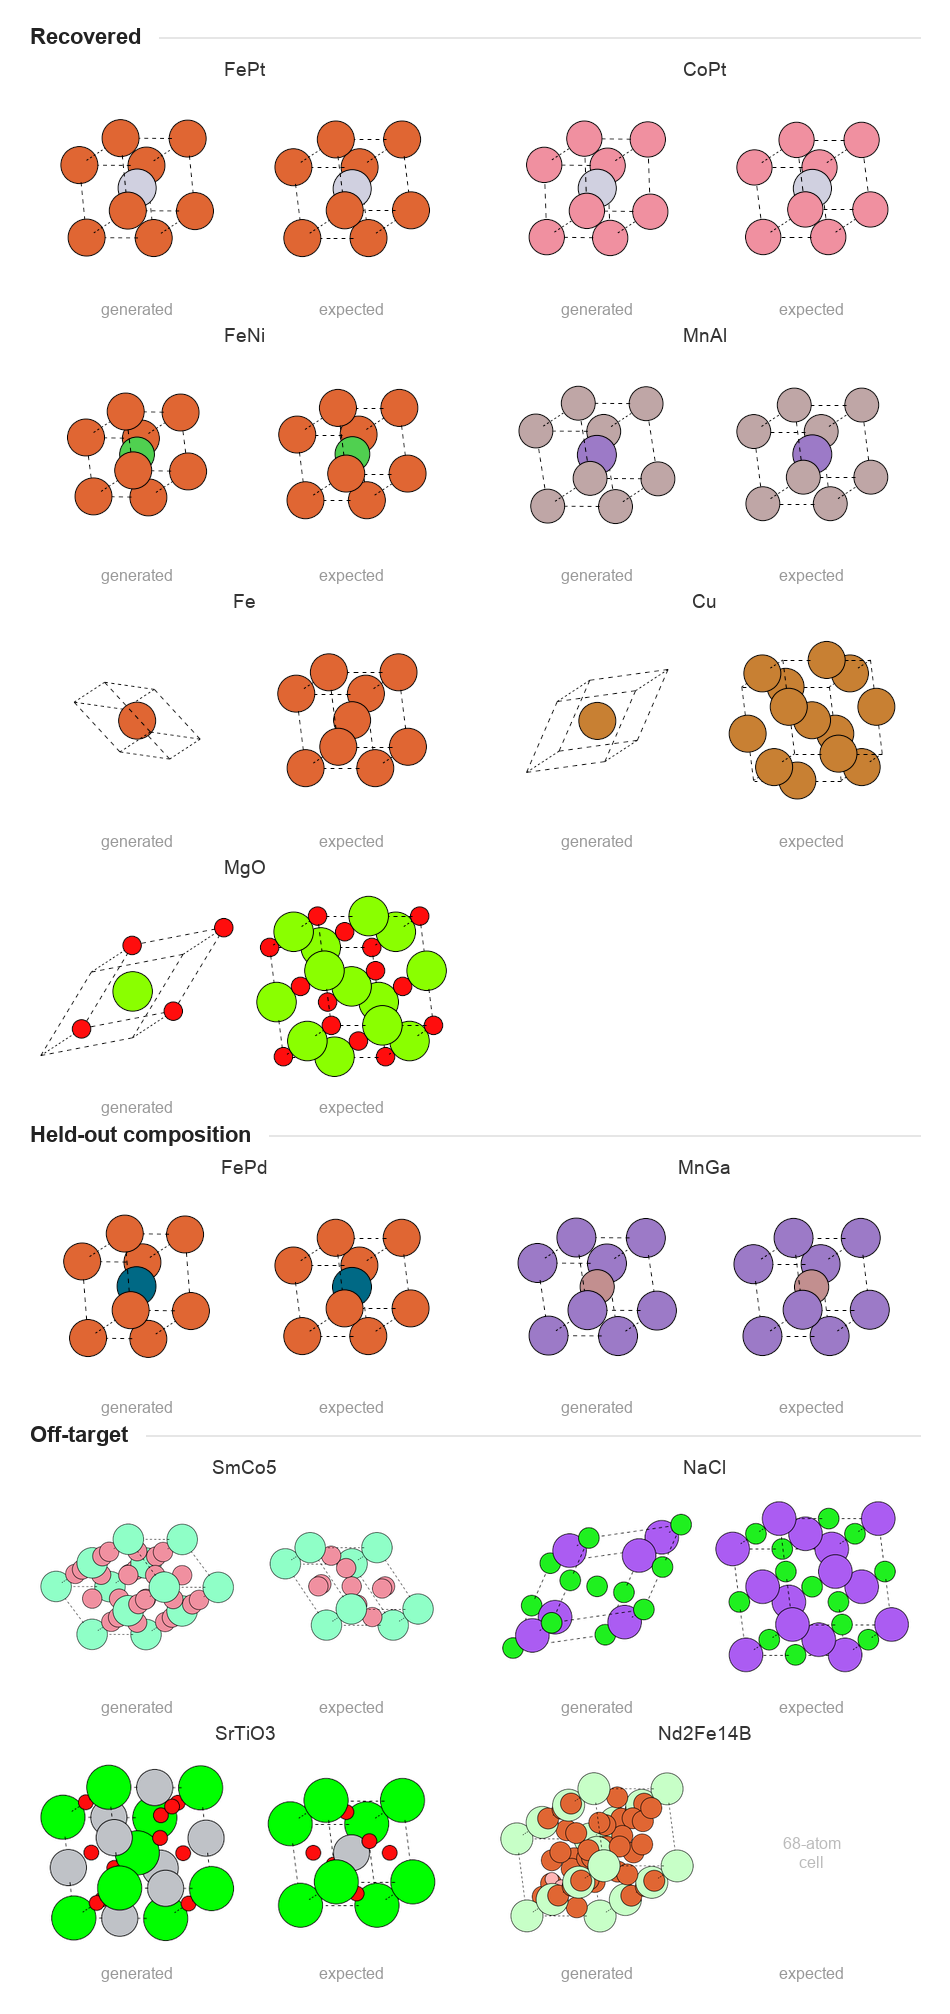
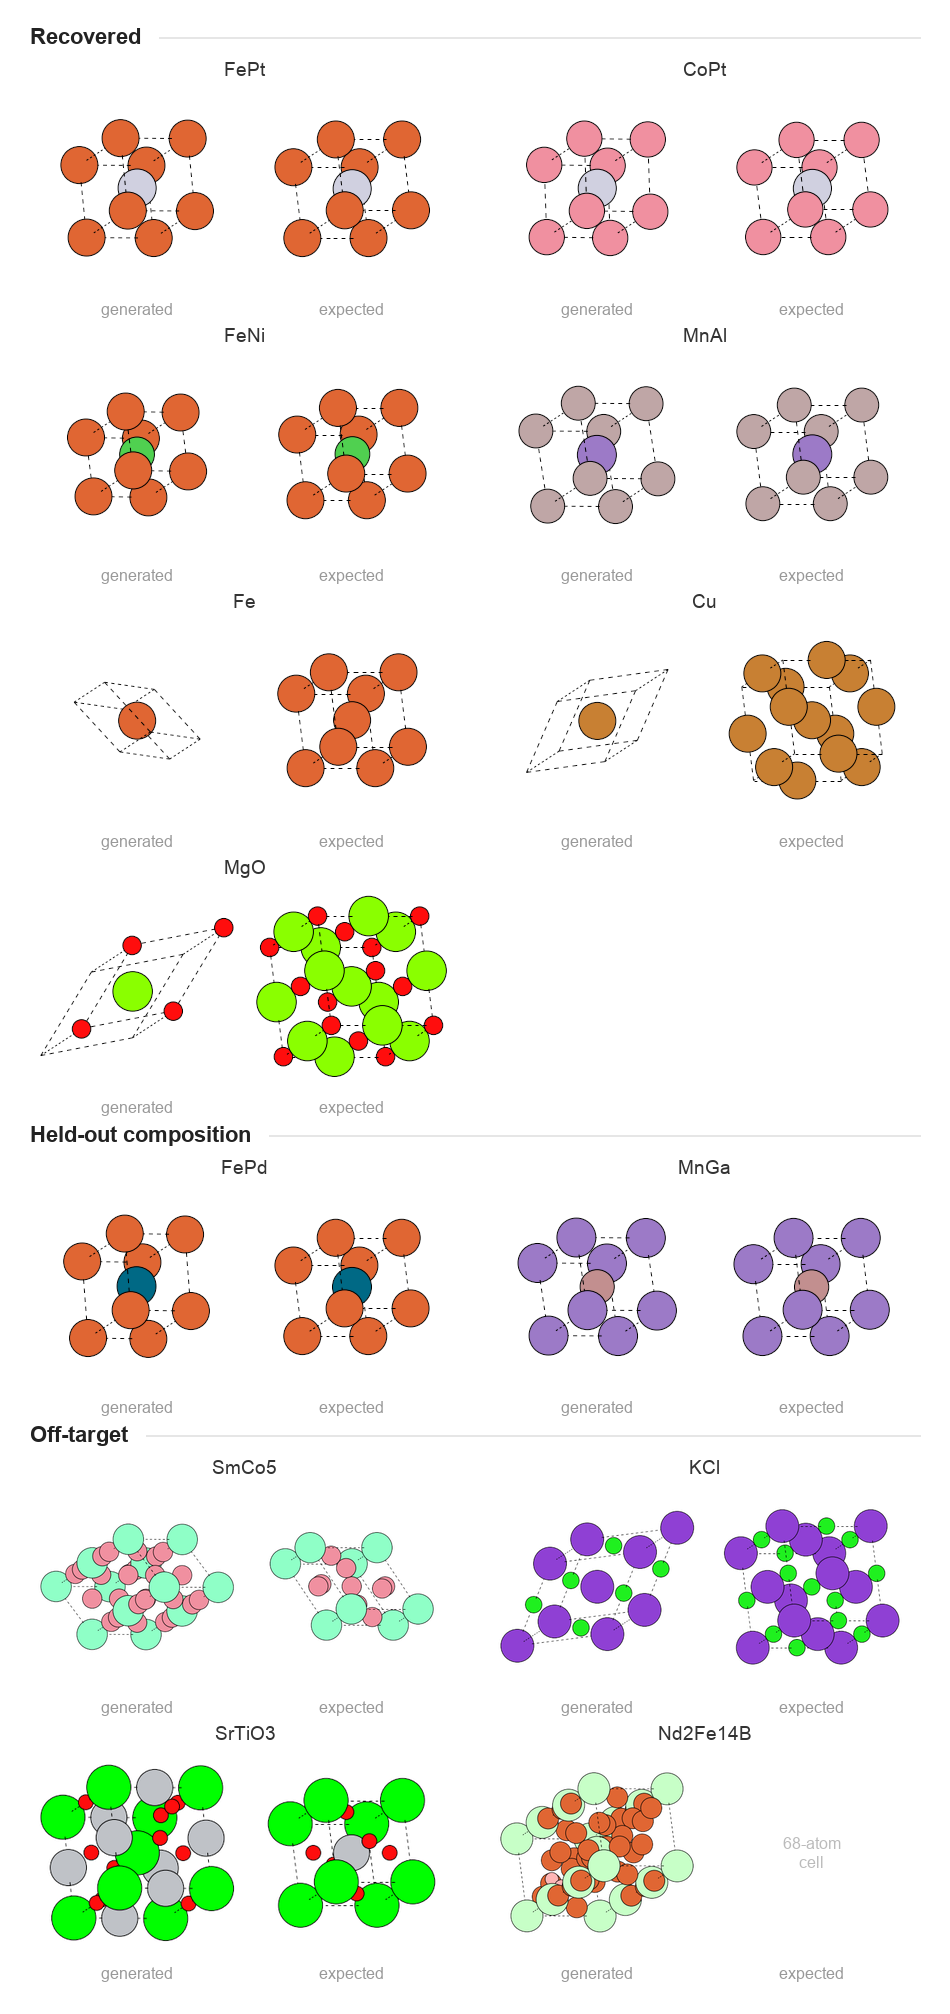
GPSK-300: ship intensity-gap decode occupancy; breadth and ternary evaluation
Decoder: formula-unit count now selected by intensity gap within an
8-40 A^3/atom window (was fixed 12 A^3/atom). Small dense cells are
unchanged (window collapses; FePt regression 7/8); closed-form
roundtrips 6/6 including NaCl/KCl.

Re-measured panels with the deployed decode (N=8, w=3):
- rock-salt: MgO/LiF/NaCl 8/8, CaO 5/8, KCl 0/8 (right density,
  wrong arrangement; 3 corpus entries at prompted symmetry)
- fluorite CaF2 8/8; zinc-blende GaAs/ZnS 7/8; CsCl 0/8
- ternary (corpus is 60% ternary/24% quaternary): Co2MnSi 4/8 and
  NiMnSb framework 8/8 species-blind with ZERO corpus entries
  (unseen ternary interpolation); NiMnSb exact 3/8 = near-Z Ni/Mn
  assignment gap on 3-species frameworks (3.6 caveat, 7 item)
- perovskites 0/8 even species-blind (cells ~2x volume); chalcopyrite/
  kesterite/spinel 0/8
- complexity recheck: Sm2Co17 19/38 atoms 2/8 valid; Nd2Fe14B 17-34
  atom fragments 0/8 valid

Paper: 3.6 describes the deployed occupancy selection; 5.6 failure
modes from current measurements; 5.8 rewritten with binary breadth +
ternary/quaternary panel; Fig 16 rebuilt (8 prototypes incl NiMnSb
species-blind bar); Tables 3/A2/A3 from fixed-decode runs; gallery
off-target tile NaCl -> KCl; 'genuinely' removed throughout

Changed region(s): [[0.7632, 0.7388, 0.9768, 0.8312], [0.5189, 0.7388, 0.7326, 0.8312], [0.7326, 0.708, 0.7632, 0.7388]]

diff --git a/content/project-014/gpsk-300.md b/content/project-014/gpsk-300.md
@@ -33,7 +33,7 @@ The contributions of this paper are:
 2. GPSK-300, a 302M-parameter multimodal diffusion transformer operating in a 16³×128 latent over this representation, trained with rectified flow matching and classifier-free guidance.
 3. A reframing of how generative CSP systems should be evaluated: by per-family recovery against known reference structures rather than by SUN-style novelty rewards, which structurally penalize the kind of accuracy a useful CSP system should exhibit.
 
-The remainder of the paper is organized as follows. Section 2 reviews the structure-factor representation, the reciprocal metric tensor, and the diffusion machinery on which the model is built. Section 3 describes the encoder, generator, and closed-form decoder. Section 4 covers the training data and protocol. Section 5 reports invertibility, L1₀ magnet recovery, the composition/family holdout, conditioning-modality emergence, and the rock-salt failure analysis. Section 6 discusses the system's scope and limits, and Section 7 outlines next-step directions.
+The remainder of the paper is organized as follows. Section 2 reviews the structure-factor representation, the reciprocal metric tensor, and the diffusion machinery on which the model is built. Section 3 describes the encoder, generator, and closed-form decoder. Section 4 covers the training data and protocol. Section 5 reports invertibility, L1₀ magnet recovery, the composition/family holdout, conditioning-modality emergence, and breadth and failure-mode analysis. Section 6 discusses the system's scope and limits, and Section 7 outlines next-step directions.
 
 ### 2  Background
 
@@ -350,17 +350,17 @@ The default guidance scale is \(w = 6.0\), substantially higher than typical ima
 
 Once the model produces a \(64^3 \times 3\) grid, reconstruction is closed-form.
 
-**Atom positions.** Combine channels 0 and 1 into a complex field \(F = \mathrm{Re}\,F + i\,\mathrm{Im}\,F\), inverse FFT, take \(|\cdot|\) to obtain the fractional electron density \(\rho(\mathbf{r})\). Periodic-aware peak finding with a minimum-separation criterion gives candidate atomic sites. The detection step over-samples with a low threshold and then keeps the top-\(N\) peaks where \(N\) is set by the requested formula and the cell volume:
+**Atom positions.** Combine channels 0 and 1 into a complex field \(F = \mathrm{Re}\,F + i\,\mathrm{Im}\,F\), inverse FFT, take \(|\cdot|\) to obtain the fractional electron density \(\rho(\mathbf{r})\). Periodic-aware peak finding with a minimum-separation criterion gives candidate atomic sites. The detection step over-samples with a low threshold and then keeps the top-\(N\) peaks, \(N = n_\text{f.u.} \cdot \sum_e \nu_e\), where the formula-unit count is selected jointly from the cell volume and the peak intensities. Candidate counts are bounded to a physical per-atom-volume window (8–40 ų, spanning dense intermetallics through large ionics):
 
-$$N \;=\; n_\text{f.u.} \cdot \sum_e \nu_e, \qquad n_\text{f.u.} \;=\; \mathrm{round}\!\bigl(V_\text{cell} / (V_\text{atom} \cdot \sum_e \nu_e)\bigr)$$
+$$\Bigl\lceil V_\text{cell} \,/\, \bigl(40\,\text{Å}^3 \cdot \textstyle\sum_e \nu_e\bigr) \Bigr\rceil \;\le\; n_\text{f.u.} \;\le\; \Bigl\lfloor V_\text{cell} \,/\, \bigl(8\,\text{Å}^3 \cdot \textstyle\sum_e \nu_e\bigr) \Bigr\rfloor$$
 
-with \(V_\text{atom} \approx 12\) Å³ as a rough average per atom. This enforces requested stoichiometry exactly.
+and within the window the count with the largest drop in ranked peak intensity is selected, since true atomic peaks are bright and spurious ones dim. For dense small cells the window collapses to a single candidate; for large-volume-per-atom ionics the intensity gap resolves the count. This enforces requested stoichiometry exactly.
 
 **Lattice.** From channel 2, denormalize to recover \(1/d^2(\mathbf{h})\) on the integer grid. Assemble the design matrix \(\mathbf{A} = [\,h^2,\,k^2,\,l^2,\,2hk,\,2hl,\,2kl\,]\) over all non-origin grid points and solve the linear least-squares problem \(\min_{\mathbf{g}} \|\mathbf{A}\mathbf{g} - \mathbf{y}\|^2\) for the six independent components of \(G^\ast\). Invert \(G^\ast \to G\) and read off:
 
 $$a = \sqrt{G_{11}},\; b = \sqrt{G_{22}},\; c = \sqrt{G_{33}}, \quad \cos\alpha = G_{23}/(bc),\; \text{etc.}$$
 
-**Composition.** The deployed decoder assumes the requested formula and assigns heavier elements to brighter peaks. The heuristic recovers element identity correctly because the Cromer-Mann scattering magnitude scales monotonically with atomic number, and, perhaps surprisingly, it is robust even for near-Z neighbors (Fe/Co/Ni, Mn/Fe). It reads density peak *heights*, which the inverse FFT concentrates at atomic sites, so they are stable under reconstruction error: across encoded near-Z binaries, the heuristic assigns elements correctly at 100% both noise-free and under the VAE's own round-trip error (Figure 8). A magnitude-fitting alternative (joint Cromer-Mann least squares) is exact in the noise-free limit but *less* robust, it overfits the reconstruction error to neighboring atomic numbers and drops to ~60% on the same near-Z cases, so the simple heuristic is retained.
+**Composition.** The deployed decoder assumes the requested formula and assigns heavier elements to brighter peaks. The heuristic recovers element identity correctly because the Cromer-Mann scattering magnitude scales monotonically with atomic number, and, perhaps surprisingly, it is robust even for near-Z neighbors (Fe/Co/Ni, Mn/Fe). It reads density peak *heights*, which the inverse FFT concentrates at atomic sites, so they are stable under reconstruction error: across encoded near-Z binaries, the heuristic assigns elements correctly at 100% both noise-free and under the VAE's own round-trip error (Figure 8). The reliability is binary-specific, however: with three or more species on distinct sublattices, near-Z pairs are confused more often (NiMnSb in Section 5.8), and disambiguation beyond binaries remains open (Section 7). A magnitude-fitting alternative (joint Cromer-Mann least squares) is exact in the noise-free limit but *less* robust, it overfits the reconstruction error to neighboring atomic numbers and drops to ~60% on the same near-Z cases, so the simple heuristic is retained.
 
 <figure>
   <svg viewBox="0 0 600 220" xmlns="http://www.w3.org/2000/svg" style="font-family:inherit;">
@@ -475,7 +475,7 @@ The L1₀ family is a primary target for rare-earth-free permanent magnets: tetr
 
 <figure>
   <img src="/img/gpsk300_gallery.png" alt="Generated versus expected crystal structures across the competence spectrum: recovered L1₀ magnets, metals and rock-salt oxide; held-out compositions; and characteristic failures." style="width:100%;max-width:600px;display:block;margin:0 auto;" />
-  <figcaption><strong>Figure 9a.</strong> GPSK-300's outputs span its competence spectrum, each shown as the generated crystal beside the expected reference at a common scale. The recovered families (L1₀ magnets, simple metals, and the rock-salt oxide, recovered despite ~430 training samples) reproduce the expected cell; held-out compositions (FePd, MnGa) recover at nearly the seen rate; and the off-target cases are visible directly: the unseen hexagonal family produces a tall cell rather than the squat CaCu₅ geometry, rock-salt halides and perovskite generate coherent but structurally wrong cells, and the 68-atom Nd₂Fe₁₄B exceeds the decode's ~20–40-atom ceiling and returns only a fragment. Per-structure metrics are in Tables 1–4 and Appendix A.</figcaption>
+  <figcaption><strong>Figure 9a.</strong> GPSK-300's outputs span its competence spectrum, each shown as the generated crystal beside the expected reference at a common scale. The recovered families (L1₀ magnets, simple metals, and the rock-salt oxide, recovered despite ~430 training samples) reproduce the expected cell; held-out compositions (FePd, MnGa) recover at nearly the seen rate; and the off-target cases are visible directly: the unseen hexagonal family produces a tall cell rather than the squat CaCu₅ geometry, KCl and the perovskite generate coherent but structurally wrong cells, and the 68-atom Nd₂Fe₁₄B exceeds the decode's ~20–40-atom ceiling and returns only a fragment. Per-structure metrics are in Tables 1–4 and Appendix A.</figcaption>
 </figure>
 
 <figure>
@@ -614,21 +614,19 @@ The exact-fingerprint novelty metric reports ≈100% novel, but this is the metr
 
 #### 5.6  Failure modes
 
-Rock-salt ionics initially appear to divide along anion type: MgO recovers exactly while NaCl and KCl report per-atom volumes roughly half their references. Tracing where the error lives overturns that reading. The lattice read closed-form from the generated grids, before any atom placement, is never undersized: LiF and MgO land on the correct primitive cell, while CaO, NaCl, and KCl come out 13–30% *oversized* on edge length (Table 3). The "undershoot" enters at decode. The peak-count heuristic of Section 3.6 assumes ≈12 ų per atom; for targets whose true atomic volume is far larger (CaO 14, NaCl 22, KCl 31 ų/atom) it over-counts formula units, and the top-N picker promotes noise peaks to fill the quota, collapsing nearest-neighbor distances and forcing the reported per-atom volume back toward 12 ų regardless of the generated cell. Re-decoding the *same grids* with the occupancy set from the composition's true atomic volume recovers exact `StructureMatcher` matches the stock decode scored at zero: CaO goes from 0/8 to 7/8 and NaCl from 0/8 to 2/8, while KCl stays at 0/8 (Table 3). The split is therefore not anion chemistry, and CaO, an oxide that stock-decodes at 0/8, breaks the anion-type divide outright: MgO (9.3 ų/atom) and LiF (8.2) recover because their atomic densities sit near the decoder's prior and round to the correct atom count, and LiF is itself a halide.
+Most rock-salt ionics recover. MgO, LiF, and NaCl match their reference structures in 8 of 8 samples each, and CaO in 5 of 8, with decoded cells running 10–60% large on volume but well within match tolerance (Table 3). KCl is the failure case: no sample matches; the cells decode at approximately the right atomic density but the arrangement is not rock-salt, with nearest-neighbor distances ~12% short and inconsistent atom counts across samples. The failure tracks conditional support rather than chemistry: the corpus holds 29 MgO entries at the prompted composition and symmetry against 3 for KCl, and the most weakly supported prompt is the one that fails. Other failure modes are family-specific. Si (diamond cubic) is a generative miss: the generated cells sit near the volume of the *one-atom fcc primitive* rather than the two-atom diamond cell (≈ 0.55× reference volume per atom), as if the model emits the lattice without the basis doubling; 1 of 8 samples still matches the reference at the matcher's tolerance edge. LiFePO₄ (olivine) does not recover: every sample returns a single-formula-unit, 7-atom cell in place of the 28-atom olivine cell, with per-atom volume close to correct (≈ 0.94), the same too-small-cell behavior as the complexity ceiling of Section 5.9.
 
-What remains after the decode artifact is a genuine generative error that grows as conditional support thins: the corpus holds 29 MgO entries at the prompted symmetry but only 8 for NaCl and 3 for KCl, and the generated cell oversize grows in the same order (MgO ≈ 0%, NaCl +15%, KCl +30%), leaving KCl unrecoverable even with oracle occupancy. Other failure modes are family-specific. Si (diamond cubic) is a genuine generative miss: the generated cells sit near the volume of the *one-atom fcc primitive* rather than the two-atom diamond cell (≈ 0.53× reference volume per atom), as if the model emits the lattice without the basis doubling; 2 of 8 samples still match the reference at the matcher's tolerance edge. LiFePO₄ (olivine) does not recover: every sample returns a single-formula-unit, 7-atom cell in place of the 28-atom olivine cell, with per-atom volume close to correct (≈ 0.94), the same too-small-cell behavior as the complexity ceiling of Section 5.9.
+**Table 3.** Rock-salt family (ship checkpoint, N = 8 per composition, w = 3). vol/atom = median per-atom volume ratio (1.0 = correct); match = exact `StructureMatcher` rate.
 
-**Table 3.** Rock-salt family (ship checkpoint, N = 8 per composition, w = 3; the MgO match rate is from the N = 16 breadth run). nn = nearest-neighbor distance ratio from the stock decode, which is independent of atom count and so reflects the generated geometry; vol/atom = stock-decode per-atom volume ratio, which carries the occupancy artifact. Match is exact `StructureMatcher`, stock decode → same grids re-decoded with composition-aware occupancy.
+| Composition | type | vol/atom ratio | match |
+|---|:---:|---:|:---:|
+| MgO  | oxide  | 1.26 | 8/8 |
+| LiF  | halide | 1.11 | 8/8 |
+| NaCl | halide | 1.60 | 8/8 |
+| CaO  | oxide  | 1.37 | 5/8 |
+| KCl  | halide | 0.98 | 0/8 |
 
-| Composition | type | true ų/atom | vol/atom ratio | nn ratio | match (stock → fixed occupancy) |
-|---|:---:|---:|---:|---:|:---:|
-| MgO  | oxide  | 9.3 | 1.18 | 1.04 | ✓ 16/16 |
-| LiF  | halide | 8.2 | 0.95 | 0.95 | ✓ 6/8 |
-| CaO  | oxide  | 13.9 | 0.73 | 0.71 | ✗ 0/8 → **7/8** |
-| NaCl | halide | 22.4 | 0.51 | 0.57 | ✗ 0/8 → 2/8 |
-| KCl  | halide | 31.1 | 0.39 | 0.23 | ✗ 0/8 → 0/8 |
-
-The remedy splits accordingly. The occupancy artifact is a decode-level fix (composition-aware atomic volumes in the formula-unit estimate) requiring no retraining (Section 7). The residual cell oversize is the part a learning signal can address, and it is the natural target for the stability-aware reward of Section 7.
+The KCl failure and the modest volume oversize across the family are the kind of error the flow-matching objective does not currently penalize: nothing in training pushes a generated cell toward its energy minimum. Both are the natural target for the stability-aware reward of Section 7.
 
 #### 5.7  Holdout generalization: composition vs family
 
@@ -710,46 +708,56 @@ The family-level failure is not permanent: a brief fine-tune on a handful of exa
 
 #### 5.8  Breadth beyond the magnet families
 
-The evaluation so far targets magnet families by design. To map where the reciprocal-space representation generalizes and where it is family-specific, GPSK-300 was probed on a panel of canonical prototypes spanning bonding types (ionic, covalent, oxide, metallic), each scored against a prototype reference with the Section 5 structure-level metrics (Table A2). The picture is one of *narrow, coverage-tracking competence*.
+The evaluation so far targets magnet families by design. To map where the reciprocal-space representation generalizes and where it is family-specific, GPSK-300 was probed on a panel of canonical prototypes spanning bonding types (ionic, covalent, oxide, metallic) and element counts, each scored against a prototype reference with the Section 5 structure-level metrics (Table A2).
 
+Across the simple binary prototypes, recovery is broad: the metals (Fe 100%, Cu 93%), the rock-salt ionics (MgO, LiF, NaCl at 8/8 each; CaO 5/8), fluorite CaF₂ (8/8), and the zinc-blende covalents (GaAs and ZnS, 7/8 each) all reproduce their reference structures. Recovery does not track raw family counts: rock-salt oxide is one of the rarest labeled families in the corpus (~430 of 2M samples), and GaAs has barely any zinc-blende-symmetry entries under its own formula, yet both recover, the motif being learned from structural siblings rather than from the exact composition. The binary failures concentrate where the conditional support at the prompted (composition, symmetry) is nearly empty and the atomic volume is extreme: KCl and CsCl (3 and 5 corpus entries at their prompted symmetry) decode at roughly the right density but in the wrong arrangement.
 
-Exact recovery is confined to simple metals and the rock-salt oxide MgO; most other prototypes produce geometrically valid but structurally incorrect cells. The MgO recovery comes *despite* representation, not because of it: rock-salt oxide is one of the rarest labeled families in the corpus (~430 of 2M samples, against ~4,200 rock-salt halides), and the halide failure traces to the decode's occupancy prior rather than to coverage (Section 5.6). Coverage still matters where it is genuinely thin at the prompted conditional (KCl's cell oversize tracks its three corpus entries at the prompted symmetry), but the simple oxide-recovers-because-it-is-well-covered story does not survive the corpus counts. **The magnet-family accuracy does not broadly generalize**, which is the empirical basis for positioning GPSK-300 as an amortized proposer for represented families rather than a general-purpose CSP engine. (Annealing sharpens these rates but does not broaden them: across checkpoints, metal recovery peaks at the same point as magnet recovery, and the never-matched families stay at zero.)
+Ternary and quaternary prototypes matter more than the binary panel suggests: 60% of the training corpus is ternary and 24% quaternary, with binaries only 13%. Probing this regime separates the framework from the species labeling. The Heusler intermetallics interpolate the way the L1₀ holdout does (Section 5.7): Co₂MnSi (4/8 exact) and NiMnSb appear nowhere in the corpus under their formulas, yet the model produces their frameworks, NiMnSb in 8 of 8 samples under species-blind matching. NiMnSb's exact rate is 3/8, the gap being element assignment: with three species on distinct sublattices, the brightness heuristic of Section 3.6 confuses the near-Z pair Ni/Mn (ΔZ = 3), a limitation that does not appear on binaries (Section 7). The structured oxides and sulfides are the substantive misses: the cubic perovskites (SrTiO₃, BaTiO₃) generate cells near twice the reference volume with the wrong motif even species-blind, and chalcopyrite, kesterite, and spinel do not recover.
+
+**The magnet-family accuracy generalizes to simple prototypes and intermetallic frameworks, but not to multi-sublattice oxides**, which is the empirical basis for positioning GPSK-300 as an amortized proposer for represented motif classes rather than a general-purpose CSP engine. (Annealing sharpens these rates but does not broaden them: across checkpoints, metal recovery peaks at the same point as magnet recovery, and the never-matched families stay at zero.)
 
 <figure>
-  <svg viewBox="0 0 600 250" xmlns="http://www.w3.org/2000/svg" style="font-family:inherit;">
-    <line x1="150" y1="30" x2="150" y2="205" stroke="#888" stroke-width="0.5"/>
-    <line x1="335" y1="30" x2="335" y2="205" stroke="#eee" stroke-width="0.5"/>
-    <line x1="520" y1="30" x2="520" y2="205" stroke="#eee" stroke-width="0.5"/>
-    <text x="144" y="48" text-anchor="end" font-size="9.5" fill="#333">Fe · bcc metal</text>
-    <rect x="150" y="40" width="370" height="14" fill="#FF680A" fill-opacity="0.8"/>
-    <text x="527" y="51" font-size="9.5" fill="#FF680A">100%</text>
-    <text x="144" y="78" text-anchor="end" font-size="9.5" fill="#333">Cu · fcc metal</text>
-    <rect x="150" y="70" width="344" height="14" fill="#FF680A" fill-opacity="0.8"/>
-    <text x="501" y="81" font-size="9.5" fill="#FF680A">93%</text>
-    <text x="144" y="108" text-anchor="end" font-size="9.5" fill="#333">MgO · rock-salt oxide</text>
-    <rect x="150" y="100" width="370" height="14" fill="#FF680A" fill-opacity="0.8"/>
-    <text x="527" y="111" font-size="9.5" fill="#FF680A">100%</text>
-    <text x="144" y="138" text-anchor="end" font-size="9.5" fill="#888">NaCl · rock-salt halide</text>
-    <rect x="150" y="130" width="3" height="14" fill="#bbb"/>
-    <text x="160" y="141" font-size="9.5" fill="#999">0%</text>
-    <text x="144" y="168" text-anchor="end" font-size="9.5" fill="#888">SrTiO₃ · perovskite</text>
-    <rect x="150" y="160" width="3" height="14" fill="#bbb"/>
-    <text x="160" y="171" font-size="9.5" fill="#999">0%</text>
-    <text x="144" y="198" text-anchor="end" font-size="9.5" fill="#888">GaAs · zinc-blende</text>
-    <rect x="150" y="190" width="3" height="14" fill="#bbb"/>
-    <text x="160" y="201" font-size="9.5" fill="#999">0%</text>
-    <line x1="150" y1="208" x2="520" y2="208" stroke="#888" stroke-width="0.5"/>
-    <text x="150" y="221" text-anchor="middle" font-size="9" fill="#666">0</text>
-    <text x="335" y="221" text-anchor="middle" font-size="9" fill="#666">50%</text>
-    <text x="520" y="221" text-anchor="middle" font-size="9" fill="#666">100%</text>
-    <text x="335" y="239" text-anchor="middle" font-size="10" fill="#444" font-style="italic">StructureMatcher recovery rate</text>
+  <svg viewBox="0 0 600 280" xmlns="http://www.w3.org/2000/svg" style="font-family:inherit;">
+    <line x1="150" y1="28" x2="150" y2="234" stroke="#888" stroke-width="0.5"/>
+    <line x1="335" y1="28" x2="335" y2="234" stroke="#eee" stroke-width="0.5"/>
+    <line x1="520" y1="28" x2="520" y2="234" stroke="#eee" stroke-width="0.5"/>
+    <text x="144" y="47" text-anchor="end" font-size="9.5" fill="#333">Fe · bcc metal</text>
+    <rect x="150" y="38" width="370" height="13" fill="#FF680A" fill-opacity="0.8"/>
+    <text x="527" y="49" font-size="9.5" fill="#FF680A">100%</text>
+    <text x="144" y="73" text-anchor="end" font-size="9.5" fill="#333">Cu · fcc metal</text>
+    <rect x="150" y="64" width="344" height="13" fill="#FF680A" fill-opacity="0.8"/>
+    <text x="501" y="75" font-size="9.5" fill="#FF680A">93%</text>
+    <text x="144" y="99" text-anchor="end" font-size="9.5" fill="#333">MgO · rock-salt oxide</text>
+    <rect x="150" y="90" width="370" height="13" fill="#FF680A" fill-opacity="0.8"/>
+    <text x="527" y="101" font-size="9.5" fill="#FF680A">100%</text>
+    <text x="144" y="125" text-anchor="end" font-size="9.5" fill="#333">NaCl · rock-salt halide</text>
+    <rect x="150" y="116" width="370" height="13" fill="#FF680A" fill-opacity="0.8"/>
+    <text x="527" y="127" font-size="9.5" fill="#FF680A">100%</text>
+    <text x="144" y="151" text-anchor="end" font-size="9.5" fill="#333">GaAs · zinc-blende</text>
+    <rect x="150" y="142" width="324" height="13" fill="#FF680A" fill-opacity="0.8"/>
+    <text x="481" y="153" font-size="9.5" fill="#FF680A">88%</text>
+    <text x="144" y="177" text-anchor="end" font-size="9.5" fill="#333">NiMnSb · half-Heusler</text>
+    <rect x="150" y="168" width="139" height="13" fill="#FF680A" fill-opacity="0.8"/>
+    <rect x="289" y="168" width="185" height="13" fill="#FF680A" fill-opacity="0.25"/>
+    <text x="481" y="179" font-size="9.5" fill="#FF680A">38% · 100% species-blind</text>
+    <text x="144" y="203" text-anchor="end" font-size="9.5" fill="#888">SrTiO₃ · perovskite</text>
+    <rect x="150" y="194" width="3" height="13" fill="#bbb"/>
+    <text x="160" y="205" font-size="9.5" fill="#999">0%</text>
+    <text x="144" y="229" text-anchor="end" font-size="9.5" fill="#888">KCl · rock-salt halide</text>
+    <rect x="150" y="220" width="3" height="13" fill="#bbb"/>
+    <text x="160" y="231" font-size="9.5" fill="#999">0%</text>
+    <line x1="150" y1="237" x2="520" y2="237" stroke="#888" stroke-width="0.5"/>
+    <text x="150" y="250" text-anchor="middle" font-size="9" fill="#666">0</text>
+    <text x="335" y="250" text-anchor="middle" font-size="9" fill="#666">50%</text>
+    <text x="520" y="250" text-anchor="middle" font-size="9" fill="#666">100%</text>
+    <text x="335" y="268" text-anchor="middle" font-size="10" fill="#444" font-style="italic">StructureMatcher recovery rate</text>
   </svg>
-  <figcaption><strong>Figure 16.</strong> Exact-structure recovery varies sharply across canonical prototypes spanning ionic, covalent, oxide, and metallic bonding. Recovery is confined to simple metals and the rock-salt oxide MgO, which recovers despite rock-salt oxide being among the rarest labeled families in the corpus (~430 samples); the rock-salt halide failure traces to the decode's occupancy prior rather than to training coverage (Section 5.6). The remaining prototypes produce valid-looking but structurally incorrect cells, so magnet-family accuracy does not broadly generalize.</figcaption>
+  <figcaption><strong>Figure 16.</strong> Exact-structure recovery across canonical prototypes spanning ionic, covalent, oxide, and metallic bonding. Recovery is broad across the simple binary prototypes (metals, rock-salt, zinc-blende) and does not track raw family counts: rock-salt oxide is among the rarest labeled families in the corpus (~430 samples), yet MgO recovers. NiMnSb, a ternary absent from the corpus under its own formula, produces the correct half-Heusler framework in every sample (light bar, species-blind matching); its exact rate is set by element assignment on the near-Z Ni/Mn pair. The failures are the extreme-volume thin-support ionics (KCl) and the multi-sublattice oxides (perovskite), which generate coherent cells with the wrong motif.</figcaption>
 </figure>
 
 #### 5.9  Complexity ceiling
 
-The closed-form decode locates atoms as peaks in the inverse-FFT density, which bounds the cell complexity it can resolve. A ladder of increasing atom count makes the ceiling explicit (Table A3): small-to-moderate cells recover, but beyond roughly 20–40 atoms the decode collapses: it either undershoots the atom count badly or returns invalid geometry. Nd₂Fe₁₄B, the commercial permanent magnet [1, 2], is a 68-atom cell; the model emits a single-formula-unit, 17-atom fragment.
+The closed-form decode locates atoms as peaks in the inverse-FFT density, which bounds the cell complexity it can resolve. A ladder of increasing atom count makes the ceiling explicit (Table A3): small-to-moderate cells recover, but beyond roughly 20–40 atoms the decode collapses: it either undershoots the atom count badly or returns invalid geometry. Nd₂Fe₁₄B, the commercial permanent magnet [1, 2], is a 68-atom cell; the model emits one- to two-formula-unit fragments (17–34 atoms, never the full cell), none geometrically valid.
 
 
 Critically, **this is not a grid-resolution limit.** A closed-form encode→decode round-trip on real structures resolves all atoms losslessly up to at least 128 atoms at the current 64³ Miller grid, and doubling the grid to 128³ yields no improvement at any atom count. The ceiling is instead the *generative* model emitting too-small cells for complex compositions (a training-coverage effect, large cells are rare in the corpus) compounded by the peak-finder's sensitivity on dense cells. The remedy is coverage and decode refinement, not finer sampling, and it bounds the honest reading of "invertibility," which holds for small-to-moderate well-represented cells and degrades as peak density grows.
@@ -778,7 +786,7 @@ Critically, **this is not a grid-resolution limit.** A closed-form encode→deco
     <text x="525" y="214" text-anchor="middle" font-size="9" fill="#666">68</text>
     <text x="317" y="236" text-anchor="middle" font-size="10" fill="#444" font-style="italic">unit-cell atom count</text>
   </svg>
-  <figcaption><strong>Figure 17.</strong> Structure recovery falls off with unit-cell atom count. Cells up to ~16 atoms recover; beyond ~20–40 atoms the decode collapses, returning invalid geometry (Sm₂Co₁₇) or a partial fragment (Nd₂Fe₁₄B, the 68-atom commercial magnet, decodes only 17 atoms). The limit is not grid resolution (a closed-form round-trip resolves ≥128 atoms at this grid) but the generative model emitting too-small cells, compounded by peak-finding on dense cells.</figcaption>
+  <figcaption><strong>Figure 17.</strong> Structure recovery falls off with unit-cell atom count. Cells up to ~16 atoms recover; beyond ~20–40 atoms the decode collapses, returning mostly invalid geometry (Sm₂Co₁₇) or a partial fragment (Nd₂Fe₁₄B, the 68-atom commercial magnet, decodes only 17–34 atoms). The limit is not grid resolution (a closed-form round-trip resolves ≥128 atoms at this grid) but the generative model emitting too-small cells, compounded by peak-finding on dense cells.</figcaption>
 </figure>
 
 #### 5.10  Ablation: is the 1/d² channel load-bearing?
@@ -820,17 +828,15 @@ The right benchmark for this class of model is per-family recovery: take held-ou
 
 The speed comparison against classical CSP methods is the practical claim of the work. USPEX [7], CALYPSO [8], and AIRSS [9] all evaluate hundreds-to-thousands of candidates per composition through DFT scoring and take hours to days per query. GPSK-300 returns a candidate in ≈5 seconds, and on the family where its family-level recovery rate is high (L1₀), the candidate it returns matches the canonical reference structure. For magnet candidate screening at the volume needed to displace NdFeB, i.e., thousands of compositions, fast iteration, this is the order-of-magnitude shift the field needs.
 
-The rock-salt failure in Section 5.6 decomposes into two narrow problems rather than a fundamental model breakdown. The larger share is decode-side: a fixed 12 ų/atom occupancy prior that over-fills large-volume-per-atom cells, fixable with composition-aware atomic volumes and no retraining (re-decoding the same grids takes CaO from 0/8 to 7/8 exact matches). The remainder is a modest generative oversize of the cell that grows as conditional support thins, and that part is the natural target for a stability-aware reward signal at training or inference time, so that lattice errors that move the structure away from its energy minimum are explicitly penalized.
+The remaining ionic failures in Section 5.6 are narrow rather than fundamental. Across the rock-salt panel only KCl fails outright, at three corpus entries for the prompted conditional, and the family-wide residual is a modest volume oversize. Both are exactly the kind of error an energy-aware objective penalizes: the cleanest path is a stability-aware reward signal at training or inference time, so that lattice errors that move the structure away from its energy minimum are explicitly penalized (Section 7).
 
 ### 7  Future Work
 
 **Stability-aware reward.** RL fine-tuning against a CHGNet-style universal MLIP [24], or diffusion-time optimization against the same energy oracle, so the model is pulled toward energetic optima rather than only the data-distribution average. A prototype using GRPO with per-prompt EMA baseline and a strong KL anchor (β ≈ 0.3) ran stably on the magnetic domain across 80 fine-tuning steps without degrading the L1₀ accuracy reported here. The full retrain target is to extend that stability gain to the simple ionics where the generated cells drift oversized as conditional support thins (Section 5.6), with the explicit reward being lattice RMSD against reference rather than raw MLIP energy.
 
-**Composition-aware decode occupancy.** The atom-count heuristic assumes a fixed 12 ų per atom, and Section 5.6 shows this single constant is responsible for most of the rock-salt failure. Replacing it with per-element atomic volumes (or selecting the formula-unit count at the largest gap in the peak-intensity ranking) is a decode-only change with no retraining, and the corrected-occupancy re-decode already bounds the gain: CaO 0/8 → 7/8 and NaCl 0/8 → 2/8 exact matches on identical grids.
-
 **Data rebalancing.** LeMat-Bulk lifts coverage of every family used in this paper into the regime where supervised flow matching trains cleanly (cubic perovskite 575 → 12.9k in the merged pool, of which 3.9k survive joint balancing; spinels 2.9k → 16.8k; hexagonal RE-TM 1.5k → 5.9k). Rock-salt oxide remains at ~430 samples even after this lift and is the next family to upweight explicitly. The training pipeline supports a tunable family-importance rebalancing weight that we have not yet swept exhaustively.
 
-**Robust element disambiguation (open).** Element assignment is not the bottleneck we initially expected: the brightness heuristic recovers near-Z identities reliably under reconstruction error (Section 3.6). The natural alternative, a joint Cromer-Mann least-squares fit predicting F(hkl) from candidate assignments, is exact on noise-free structures (6/6 SmCo₅, 4/4 Fe/Co at ΔZ=1) but, we found, *less* robust than the heuristic under realistic VAE error, overfitting reconstruction noise to neighboring atomic numbers (~60% vs the heuristic's 100% on near-Z binaries). A disambiguation method that is both error-robust and physically grounded, e.g. constraining the magnitude fit with the recovered density peak heights rather than fitting F-magnitudes alone, remains open; the current heuristic is the operating choice.
+**Robust element disambiguation (open).** Element assignment is not the bottleneck on binaries: the brightness heuristic recovers near-Z identities reliably under reconstruction error (Section 3.6). On ternary frameworks the gap is measurable: NiMnSb produces the correct half-Heusler framework in 8 of 8 samples under species-blind matching but only 3 of 8 with species assigned, the near-Z Ni/Mn sublattices being the confusion (Section 5.8). The natural alternative, a joint Cromer-Mann least-squares fit predicting F(hkl) from candidate assignments, is exact on noise-free structures (6/6 SmCo₅, 4/4 Fe/Co at ΔZ=1) but, we found, *less* robust than the heuristic under realistic VAE error, overfitting reconstruction noise to neighboring atomic numbers (~60% vs the heuristic's 100% on near-Z binaries). A disambiguation method that is both error-robust and physically grounded, e.g. constraining the magnitude fit with the recovered density peak heights rather than fitting F-magnitudes alone, remains open; the current heuristic is the operating choice.
 
 **Scale anchor for unconditional generation.** Unconditional (no-composition) generation requires resolving an \(\alpha \times Z\) scale ambiguity that the noise-free F(hkl) magnitudes cannot break alone. The cleanest fix is to add a fourth channel encoding the per-structure scale anchor (\(\log\) of `norm_factor`), so the model emits its own absolute scale at generation time.
 
@@ -851,23 +857,29 @@ The figures in Section 5 carry the headline results; the full per-family numbers
 | Magnetic ordering  | 0.57 | late |
 | Formation energy   | 0.84 | late |
 
-**Table A2.** Breadth across structural families (ship checkpoint). Match = exact `StructureMatcher` rate; cell-scale = median *linear* cell-scale ratio, the cube root of the per-atom volume ratio (1.0 = correct). Table 3 reports the same rock-salt data as volume ratios, which is why its numbers look harsher (a 0.73 linear scale is a 0.39 volume ratio).
+**Table A2.** Breadth across structural prototypes (ship checkpoint, N = 8 per composition, w = 3). Match = exact `StructureMatcher` rate; cell-scale = median linear cell-scale ratio, the cube root of the per-atom volume ratio (1.0 = correct).
 
-| structure family | match rate | cell-scale | verdict |
+| structure prototype | match rate | cell-scale | verdict |
 |---|:---:|:---:|---|
 | bcc / fcc metals (Fe, Cu) | 100% / 93% | ~1.0 | recovered |
-| rock-salt oxide (MgO) | 100% | ~1.05 | recovered |
-| rock-salt halide (NaCl, KCl) | 0% | 0.73–0.81 | decode occupancy artifact; generated cells 15–30% oversized (§5.6) |
-| perovskite (SrTiO₃, BaTiO₃) | 0% (87% valid) | ~1.00 | right size, wrong internal structure |
-| zinc-blende / fluorite / rutile | 0% (valid varies) | 0.8–0.9 | geometrically valid, wrong motif |
+| rock-salt (MgO, LiF, NaCl) | 100% | 1.04–1.17 | recovered |
+| rock-salt (CaO) | 63% | 1.11 | recovered |
+| fluorite (CaF₂) | 100% | 1.16 | recovered |
+| zinc-blende (GaAs, ZnS) | 88% | 1.07–1.10 | recovered |
+| Heusler (Co₂MnSi) | 50% | 1.04 | recovered; composition absent from corpus |
+| half-Heusler (NiMnSb) | 38% (100% species-blind) | 1.09 | framework recovered; Ni/Mn assignment limits exact match |
+| rock-salt / CsCl-type (KCl, CsCl) | 0% | ~1.0 | right density, wrong arrangement; ≤5 corpus entries at prompted symmetry |
+| wurtzite (ZnO, GaN) | 0% | ~0.95 | geometrically valid, wrong motif |
+| perovskite (SrTiO₃, BaTiO₃) | 0% (100% valid) | 1.27–1.29 | cells ≈2× volume, wrong motif |
+| chalcopyrite / kesterite / spinel | 0% | 1.04–1.14 | not recovered |
 
 **Table A3.** Recovery vs. unit-cell complexity (ship checkpoint).
 
 | compound | motif | atoms | outcome |
 |---|---|:---:|---|
 | FePt, Co₂MnSi | L1₀, Heusler | 2, 16 | recovered |
-| Sm₂Co₁₇ | 2:17 | ~38 | invalid geometry |
-| Nd₂Fe₁₄B | NdFeB | 68 | 17-atom fragment |
+| Sm₂Co₁₇ | 2:17 | ~38 | 19–38 atoms decoded, 2/8 valid |
+| Nd₂Fe₁₄B | NdFeB | 68 | 17–34-atom fragment, 0/8 valid |
 
 **Table A4.** Per-checkpoint structure-match recovery on the seen and held-out L1₀ families, measured at N = 10 samples per prompt (the trajectory run plotted in Figure 15). The 400k checkpoint is the deployed model; its headline rates in Table 4 (58% seen, 48% held-out) come from the higher-precision N = 48 tiebreak run, and the N = 10 row here sits within that run's sampling noise.
 